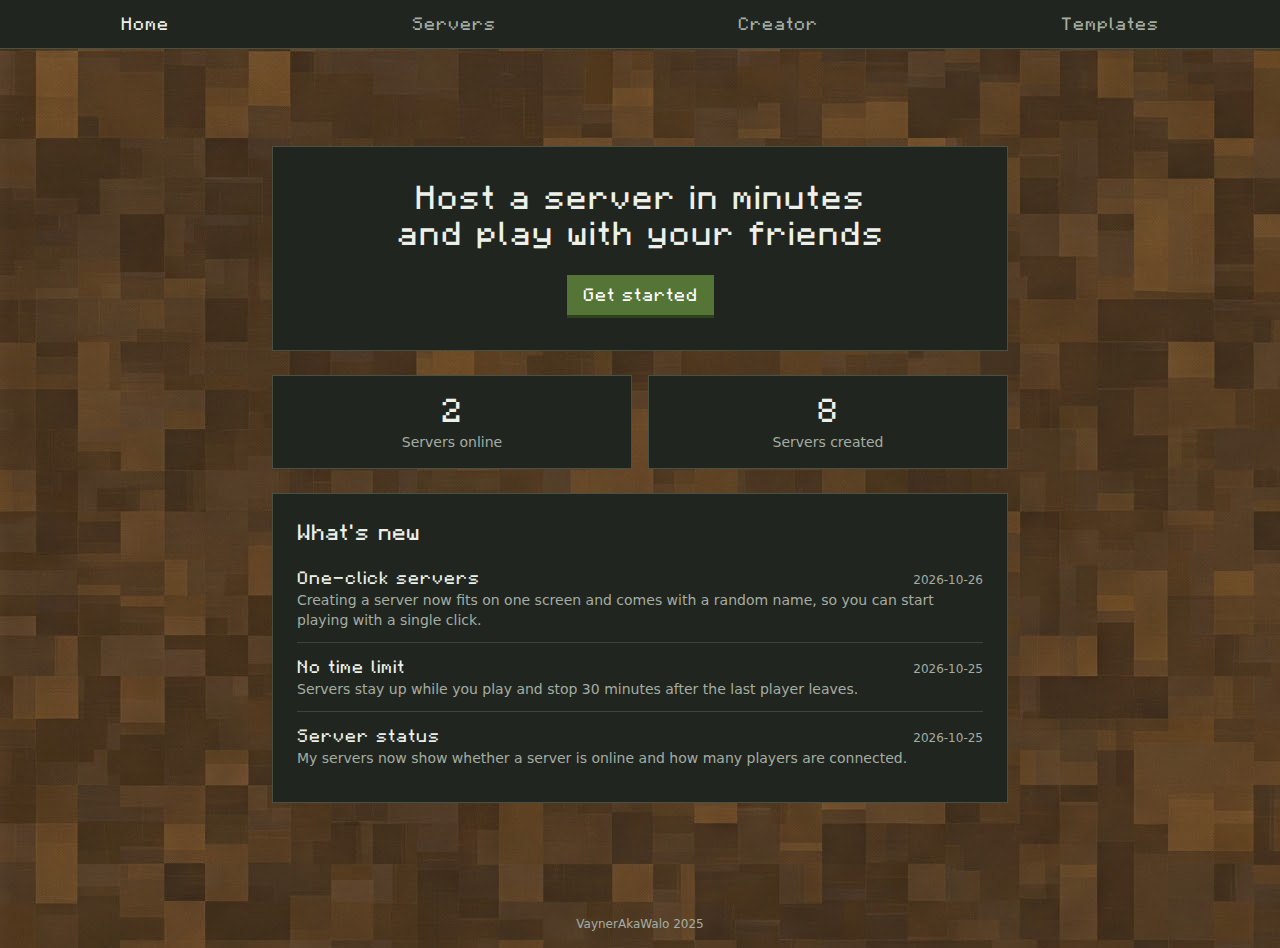
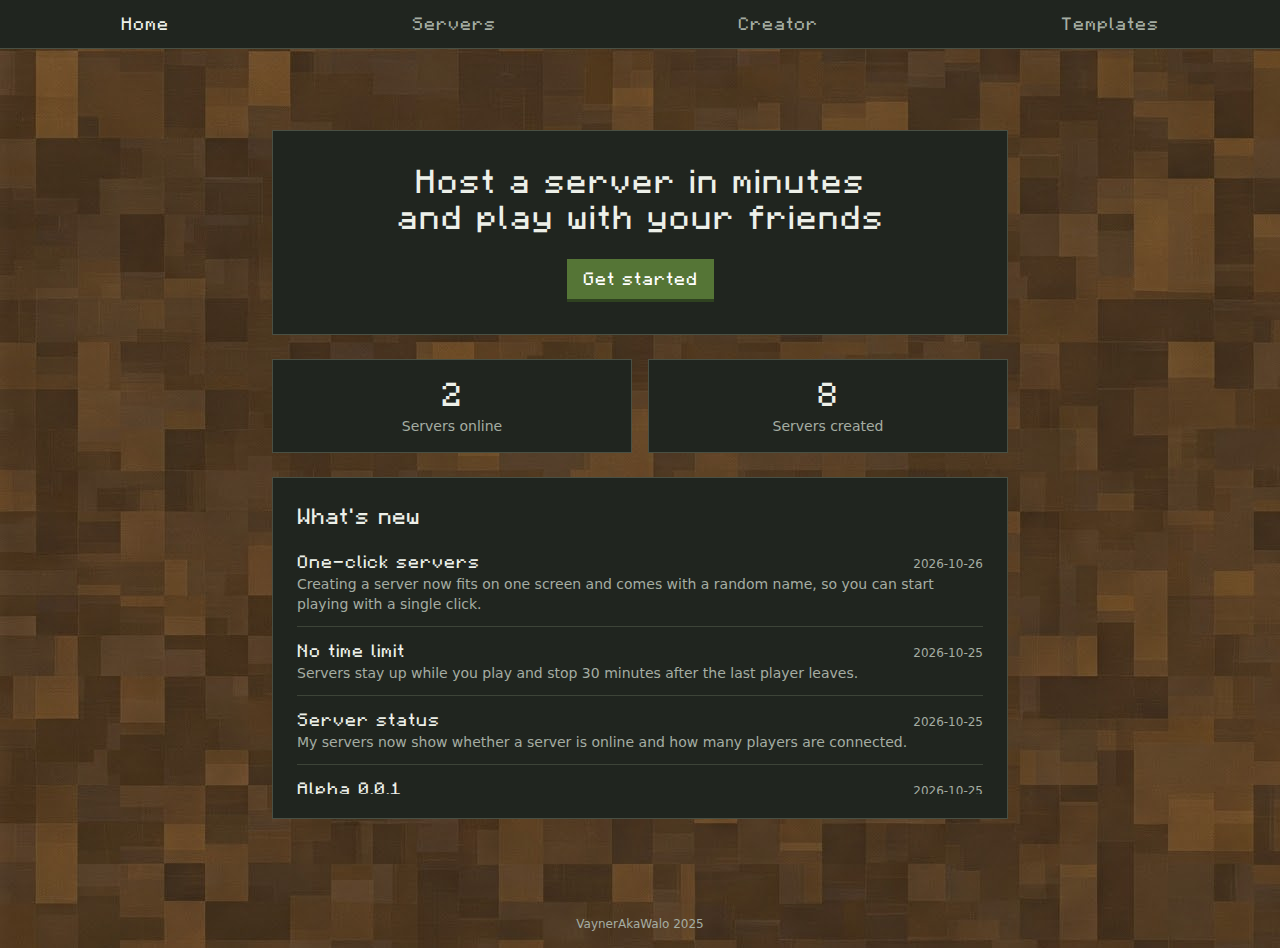
Show a hint of older news below the third entry

Changed region(s): [[0.1875, 0.1224, 0.8125, 0.8871]]

diff --git a/web/src/home/Home.tsx b/web/src/home/Home.tsx
@@ -50,7 +50,7 @@ export function Home() {
 
       <section className="mc-panel w-full p-6">
         <h2 id="whats-new-heading" className="font-pixel text-xl mb-2">What's new</h2>
-        <ul className="max-h-80 sm:max-h-56 overflow-y-auto focus-visible:outline focus-visible:outline-action-content" tabIndex={0} aria-labelledby="whats-new-heading">
+        <ul className="max-h-80 sm:max-h-64 overflow-y-auto focus-visible:outline focus-visible:outline-action-content" tabIndex={0} aria-labelledby="whats-new-heading">
           {news.map(item => (
             <li key={item.title} className="py-3 border-t border-edge first:border-t-0">
               <div className="flex flex-wrap items-baseline justify-between gap-x-4">
